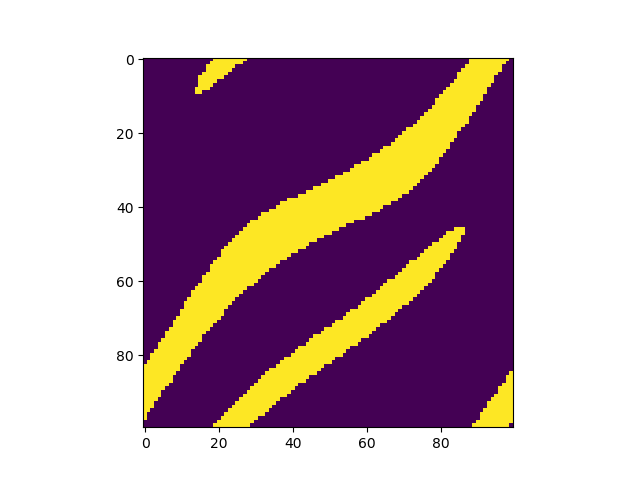
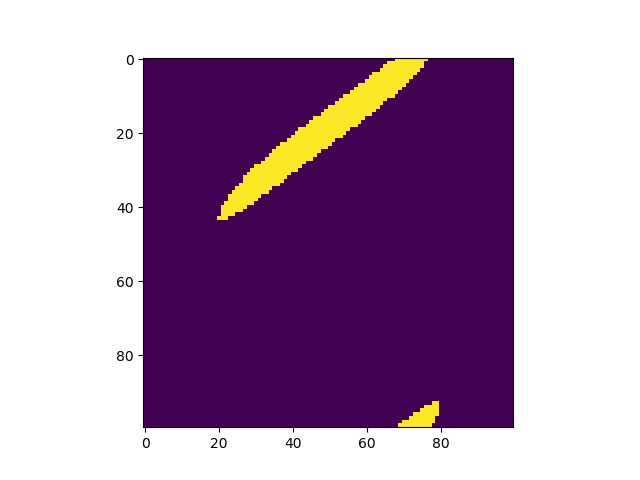
plotting start point, but need to update joints to make sure they are plotted properly

diff --git a/ArmNavigation/arm_obstacle_navigation/arm_obstacle_navigation_2.py b/ArmNavigation/arm_obstacle_navigation/arm_obstacle_navigation_2.py
@@ -34,9 +34,18 @@ def press(event):
 def main(number,obs):
     # Arm geometry in the working space
     link_length = [0.5, 1.5]
-    initial_link_angle = [0, 0]
-    arm = NLinkArm(link_length, initial_link_angle)
+    initial_link_angle = [50, 0]
+    arm = NLinkArm(link_length, initial_link_angle, plt)
     numlinks = len(link_length)
+    obstacles1 = []
+    randomTotal = int(random.random()*2 +1)
+    #for x in range(randomTotal):, testing something must indent back pater
+    random1 = random.uniform(-2, 2)
+    random2 =random.uniform(-2, 2)
+    random3 = random.uniform(.4,.7)
+    obstacles1.append([random1, random2,random3])
+    arm.plot_arm(plt, obs)
+    plt.clf()
     # (x, y) co-ordinates in the joint space [cell]
     startx = int(random.random()*99)
     starty = int(random.random()*99)
@@ -46,9 +55,9 @@ def main(number,obs):
     goal = (goalx, goaly)
     s = (100,100)
     ##Whoever works next this is the code to plot the start one idrk
-    for i in range(self.n_links + 1):
-        if i is not self.n_links:
-        myplt.plot(self.points[i][0], self.points[i][1], 'k.')
+    #for i in range(self.n_links + 1):
+        #if i is not self.n_links:
+        #myplt.plot(self.points[i][0], self.points[i][1], 'k.')
     global startgrid
     startgrid = np.zeros(s)
     startgrid[startx][starty] = 1;
@@ -67,6 +76,7 @@ def main(number,obs):
     plt.imshow(grid)
     plt.savefig('cspacegrid{:04d}.png'.format(number))
     plt.clf()
+
     ##grid2 = []
     ##grid2.append([grid])
     ##np.savetxt('cspace.dat', grid2)
@@ -326,7 +336,7 @@ class NLinkArm(object):
     Class for controlling and plotting a planar arm with an arbitrary number of links.
     """
 
-    def __init__(self, link_lengths, joint_angles):
+    def __init__(self, link_lengths, joint_angles, plt):
         self.n_links = len(link_lengths)
         if self.n_links != len(joint_angles):
             raise ValueError()
@@ -353,9 +363,21 @@ class NLinkArm(object):
 
         self.end_effector = np.array(self.points[self.n_links]).T
 
-    def plot_arm(self, myplt, obstacles=[]):  # pragma: no cover
+    def plot_arm(self, myplt, obstacles):  # pragma: no cover
         myplt.cla()
-
+        for i in range(self.n_links + 1):
+            #if i is not self.n_links:
+                #myplt.plot([self.points[i][0], self.points[i + 1][0]],
+                        #  [self.points[i][1], self.points[i + 1][1]], 'r-')
+            myplt.plot(self.points[i][0], self.points[i][1], 'k.')
+        print("test")
+        myplt.xlim([-self.lim, self.lim])
+        myplt.ylim([-self.lim, self.lim])
+        myplt.draw()
+        myplt.show()
+        number = 1
+        myplt.savefig('test{:04d}.png'.format(number))
+        myplt.clf()
         for obstacle in obstacles:
             circle = myplt.Circle(
                 (obstacle[0], obstacle[1]), radius=0.5 * obstacle[2], fc='k')
@@ -364,6 +386,7 @@ class NLinkArm(object):
         myplt.xlim([-self.lim, self.lim])
         myplt.ylim([-self.lim, self.lim])
         myplt.draw()
+
         # myplt.pause(1e-5)
 
 
@@ -373,14 +396,14 @@ for z in range(1):
     M = 100
     obstacles = []
     randomTotal = int(random.random()*2 +1)
-    for x in range(randomTotal):
-        random1 = random.uniform(-2, 2)
-        random2 =random.uniform(-2, 2)
-        random3 = random.uniform(.4,.7)
-        obstacles.append([random1, random2,random3])
+    #for x in range(randomTotal):, testing something must indent back pater
+    random1 = random.uniform(-2, 2)
+    random2 =random.uniform(-2, 2)
+    random3 = random.uniform(.4,.7)
+    obstacles.append([random1, random2,random3])
     link_length = [0.5, 1.5]
     initial_link_angle = [0, 0]
-    arm = NLinkArm(link_length, initial_link_angle)
+    arm = NLinkArm(link_length, initial_link_angle, plt)
     grid = get_occupancy_grid(arm, obstacles)
     f=open("cspace.dat", "a+")
     s = np.array_str(grid)
